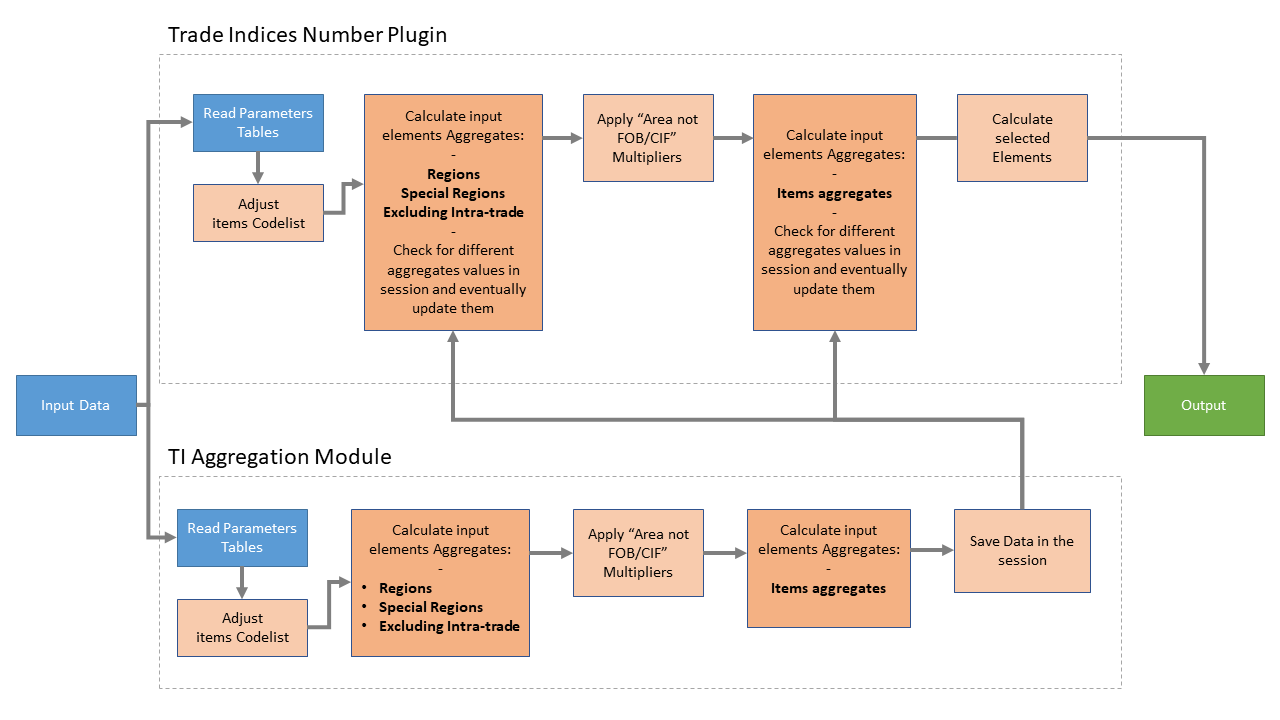
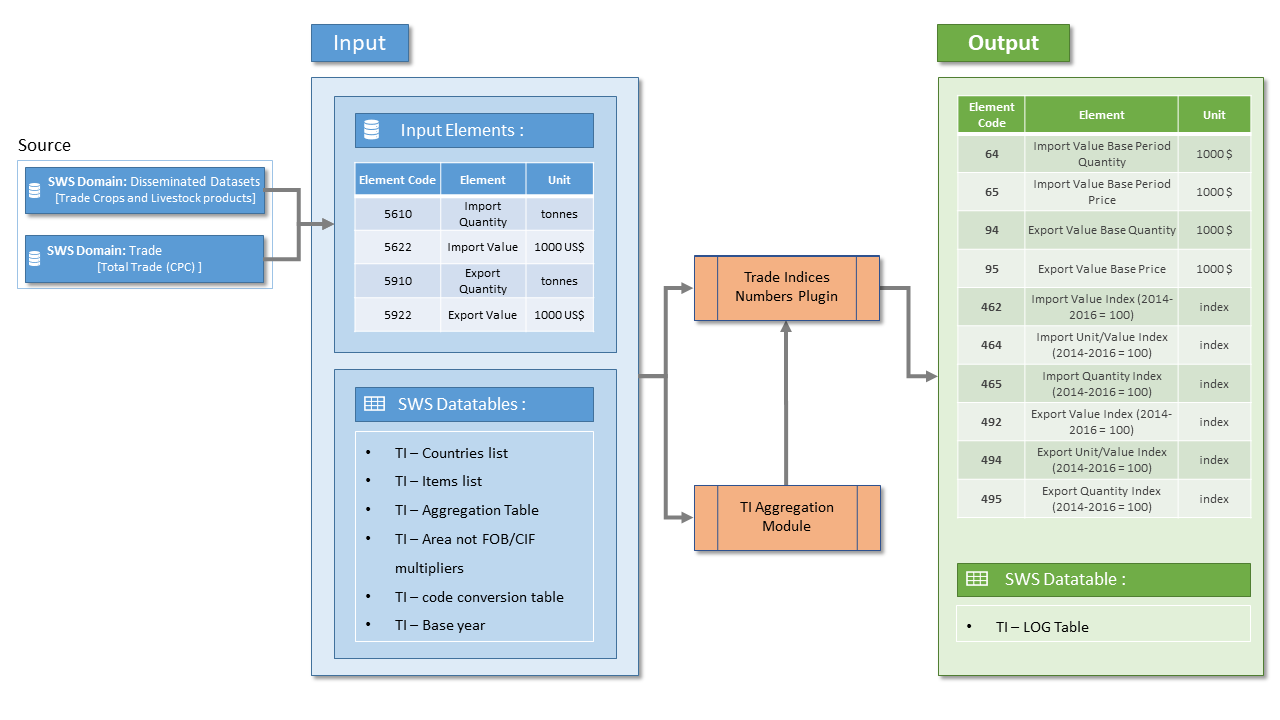
Statistical Documentation

diff --git a/docs/index.html b/docs/index.html
@@ -23,7 +23,7 @@
 <meta name="author" content="ivan.sortino@fao.org" />
 
 
-<meta name="date" content="2023-05-15" />
+<meta name="date" content="2023-05-25" />
 
   <meta name="viewport" content="width=device-width, initial-scale=1" />
   <meta name="apple-mobile-web-app-capable" content="yes" />
@@ -75,7 +75,7 @@
 <li class="chapter" data-level="1" data-path="index.html"><a href="index.html"><i class="fa fa-check"></i><b>1</b> About</a>
 <ul>
 <li class="chapter" data-level="1.1" data-path="index.html"><a href="index.html#module-workflow"><i class="fa fa-check"></i><b>1.1</b> Module Workflow</a></li>
-<li class="chapter" data-level="1.2" data-path="index.html"><a href="index.html#build-up-data-for-validation-of-procedure"><i class="fa fa-check"></i><b>1.2</b> Build up data for validation of procedure</a></li>
+<li class="chapter" data-level="1.2" data-path="index.html"><a href="index.html#build-up-data-for-validation"><i class="fa fa-check"></i><b>1.2</b> Build up data for validation</a></li>
 <li class="chapter" data-level="1.3" data-path="index.html"><a href="index.html#sws-implementation-procedure"><i class="fa fa-check"></i><b>1.3</b> SWS implementation procedure</a></li>
 <li class="chapter" data-level="1.4" data-path="index.html"><a href="index.html#output-of-the-plugin"><i class="fa fa-check"></i><b>1.4</b> Output of the plugin</a></li>
 </ul></li>
@@ -128,98 +128,110 @@
 <div id="header">
 <h1 class="title">Trade Indices Numbers</h1>
 <p class="author"><em><a href="mailto:ivan.sortino@fao.org" class="email">ivan.sortino@fao.org</a></em></p>
-<p class="date"><em>2023-05-15</em></p>
+<p class="date"><em>2023-05-25</em></p>
 </div>
 <div id="about" class="section level1 hasAnchor" number="1">
 <h1><span class="header-section-number">Chapter 1</span> About<a href="index.html#about" class="anchor-section" aria-label="Anchor link to header"></a></h1>
-<p>The aim of this module is to calculate the Value of Agriculture production within the Statistical Working System (SWS). The implementation of the procedure needs to be validated by matching the results disseminated by FAO until now.<br />
-In order to perform the validation, disseminated data needs to be available within SWS in the corresponding dataset of <em>Dissiminated Dataset</em> Domain.
-After the validation, the procedure can be applied on the corresponding production value and prices presents within the system and stored in a new “Value of Production” dataset.</p>
+<p>The aim of this module is to calculate the Trades Indices Numbers within the Statistical Working System (SWS). The procedure will be validated by matching the results disseminated by FAO on FAOSTAT platform.
+In order to perform the validation correctly, disseminated input data needs to be available within SWS in the corresponding dataset of <em>Disseminated Dataset</em> Domain.</p>
 <div id="module-workflow" class="section level2 hasAnchor" number="1.1">
 <h2><span class="header-section-number">1.1</span> Module Workflow<a href="index.html#module-workflow" class="anchor-section" aria-label="Anchor link to header"></a></h2>
 <p>As shown in the figure below, the general workflow of the module require that the Technical Unit store data in “Disseminated Dataset” to allow the plugin to ingest the right data.</p>
 <div class="figure">
-<img src="./images/general_workflow.jpg" alt="" />
-<p class="caption">Gross Production Value Plugin Data Flow</p>
+<img src="images/Dataflow_1/Slide1.PNG" alt="" />
+<p class="caption">Trade Indices Numbers Plugin Data Flow</p>
 </div>
 </div>
-<div id="build-up-data-for-validation-of-procedure" class="section level2 hasAnchor" number="1.2">
-<h2><span class="header-section-number">1.2</span> Build up data for validation of procedure<a href="index.html#build-up-data-for-validation-of-procedure" class="anchor-section" aria-label="Anchor link to header"></a></h2>
-<p>For the validation of the existing procedure, data are imported into different supporting datatable in SWS. For instance Item list, Countries list and group compositions are fetched as follow:</p>
+<div id="build-up-data-for-validation" class="section level2 hasAnchor" number="1.2">
+<h2><span class="header-section-number">1.2</span> Build up data for validation<a href="index.html#build-up-data-for-validation" class="anchor-section" aria-label="Anchor link to header"></a></h2>
+<p>To apply the methodology, support data are imported into different datatable in SWS. For instance Item list, Countries list and group compositions are fetched as follow:</p>
 <ul>
-<li><p>Country list is obtained from <em>Definitions and standards</em> section of FAOSTAT <a href="https://www.fao.org/faostat/en/#data/QV">“Value of Production”</a> dataset and uploaded into SWS <a href="resources.html#countrytab"><code>Value of production - Countries</code></a> datatable;</p></li>
-<li><p>Country group list is obtained from <em>Definitions and standards</em> section of FAOSTAT <a href="https://www.fao.org/faostat/en/#data/QV">“Value of Production”</a> dataset and uploaded into SWS <a href="resources.html#countrygrouptab"><code>Value of Production - Country Group</code></a> datatable;</p></li>
-<li><p>Item list is obtained from <em>Definitions and standards</em> section of FAOSTAT <a href="https://www.fao.org/faostat/en/#data/QV">“Value of Production”</a> dataset and uploaded into SWS <a href="resources.html#itemtab"><code>Value of Production - Item</code></a> datatable;</p></li>
-<li><p>Item group list is obtained from <em>Definitions and standards</em> section of FAOSTAT <a href="https://www.fao.org/faostat/en/#data/QV">“Value of Production”</a> dataset and uploaded into SWS <a href="resources.html#itemgrouptab"><code>Value of Production - Item group</code></a> datatable;</p></li>
-<li><p>International prices are obtained from FAOSTAT FENIX <a href="http://fenix.fao.org/faostat/internal/en/#data/PX">“<em>Producer Prices - Supplementary</em>”</a> dataset and uploaded on SWS <code>Supplementary International Dollar</code> datatable;</p></li>
+<li><p>Country list is obtained from <em>Definitions and standards</em> section of FAOSTAT <a href="https://www.fao.org/faostat/en/#data/TCL">“Crops and livestock products”</a> dataset and uploaded into SWS <a href="resources.html#countrytab"><code>TI - Country list</code></a> datatable;</p></li>
+<li><p>Item list is obtained from <em>Definitions and standards</em> section of FAOSTAT <a href="https://www.fao.org/faostat/en/#data/TCL">“Crops and livestock products”</a> dataset and uploaded into SWS <a href="resources.html#itemtab"><code>TI - Item List</code></a> datatable;</p></li>
+<li><p>Items and Countries groups list is obtained from <em>Definitions and standards</em> section of FAOSTAT <a href="https://www.fao.org/faostat/en/#data/TCL">“Value of Production”</a> dataset and uploaded into SWS <a href="#grouptab"><code>TI - Aggregation Table</code></a> datatable;</p></li>
+<li><p>Multipliers for area not FOB <em>(Free On Board)</em> / CIF <em>(Cost, Insurance, Freight)</em> are obtained from old methodology and uploaded on SWS <a href="#notfobcif"><code>TI - arean not FOB/CIF multipliers</code></a> datatable;</p></li>
 </ul>
 <p>A detailed description of each supporting datatable is reported in <a href="resources.html#datatables">SWS resources</a> section of this documentation.</p>
-<p>Since historical disseminated data may differ from those present on the Statistical Working System, it is necessary to make it available on SWS. To do this the CSI-SWS technical team need to retrieve the data from the the dissemination platform (FAOSTAT) and update it on <code>Disseminated Domain</code>. Once the procedure is done, Production and Prices data will be in line with disseminated one and the calculation should match the historical data.</p>
+<p>Since historical disseminated data may differ from those present on the Statistical Working System, it is necessary to make it available on SWS. To do this the CSI-SWS technical team need to retrieve the data from the the dissemination platform (FAOSTAT) and update it on <code>Disseminated Domain</code>.
+Note that after some changes have been applied to the methodology, results may differs for single items respect to the FAOSTAT disseminated one. Indeed, for consistency with CPC coding standard and to align the <em>Trade Indices</em> (TI) domain with <em>Crops and livestock products</em> (TCL) one, the plugin will calculate each single items individually and returns values for each one instead of grouping them.</p>
 </div>
 <div id="sws-implementation-procedure" class="section level2 hasAnchor" number="1.3">
 <h2><span class="header-section-number">1.3</span> SWS implementation procedure<a href="index.html#sws-implementation-procedure" class="anchor-section" aria-label="Anchor link to header"></a></h2>
-<p>The plugin will work within a session, meaning that the user needs to select the elements and the years for which they intend to calculate the Value of Agriculture Production, then run the plugin within the new created session.
-It is worth noting that for the sake of consistency with FAOSTAT item/country list and for calculation of the aggregates, the plugin will always return values for all the countries and items specified into the supporting data table <code>"Value of production - Countries"</code> and <code>"Value of Production - Item"</code></p>
-<p>The module will pull its data directly within the working system, allowing the user to choose the source of data both for Production data and for Annual Producer Prices. For instance, if Disseminated Datasets source is not selected:</p>
+<p>The plugin will work within a session, meaning that the user needs to select the elements and the years for which they intend to calculate the trade indices, then run the plugin within the new created session.
+It is worth noting that for the sake of consistency with FAOSTAT item/country list and for calculation of the aggregates, the plugin will always calculate values for all the countries and items specified into the supporting data table <code>"TI - Country list"</code> and <code>"TI - Item list"</code>, the output can be filtered using the different parameters implemented.</p>
+<p>The module will pull its data directly within the working system, allowing the user to choose the source of data for Import or Export quantities For instance, if Disseminated Datasets source is not selected:</p>
 <ul>
-<li><p>Production data in tonnes (<em>element 5510/55100</em>) are pulled from <code>Agriculture Production</code> domain, dataset <code>Agriculture Production</code>;</p></li>
-<li><p>Annual Producer Prices data for Standard Local Currency (<em>element 5531</em>) and US Dollar (<em>element 5532</em>) are pulled from <code>Producer Prices</code> domain, dataset <code>Annual Producer Prices (Validated)</code></p></li>
-<li><p>Annual Producer Prices data for International Dollar (<em>element 5533</em>) are pulled from <code>Producer Prices</code> domain, dataset <code>International dollar prices</code>.</p></li>
+<li><p>Import / Export quantities in tonnes (<em>element 5610/5910</em>) are pulled from <code>Trade</code> domain, dataset <code>Total Trade (CPC)</code>;</p></li>
+<li><p>Import / Export values in thousand US Dollar (<em>element 5622/5922</em>) are pulled from <code>Trade</code> domain, dataset <code>Total Trade (CPC)</code>;</p></li>
 </ul>
-<p>If Disseminated Datasets source is selected, the plugin will pull its data from the corresponding datasets of the “Disseminated Datasets” domain, however since International dollar prices are not disseminated, they will be always fetched in “Producer Prices” domain.<br />
-For the calculation of the element 434 “Gross per capita Production Index Number” the plugin will require also the total population by sex, element 511 from <code>Population Disseminated</code> of <code>Disseminated datasets</code> domain.<br />
-</p>
 <p><br></p>
-<p>For the correct functioning of the module it is important to ensure that the read permissions on the datasets mentioned above are correctly guaranteed.</p>
+<p>For the correct functioning of the module it is important to ensure that the read permissions on the datasets mentioned above are correctly guaranteed.<br />
+Please note that the plugin retrieves data from the item codes specified in the <code>"TI - Item list"</code> datatable, following the official CPC standard. However, as some SWS item codes may not align with the standard, the plugin enables internal code conversion to ensure accurate information retrieval. The correct codes are determined by referencing the mapping specified in the <code>TI - Code conversion table</code> datatable.<br />
+</p>
 </div>
 <div id="output-of-the-plugin" class="section level2 hasAnchor" number="1.4">
 <h2><span class="header-section-number">1.4</span> Output of the plugin<a href="index.html#output-of-the-plugin" class="anchor-section" aria-label="Anchor link to header"></a></h2>
-<p>The module will return the time series for all the elements selected in the session. The output elements are listed in the table below:</p>
+<p>The module will return the time series for all the elements selected in the session. The possible output elements are listed in the table below:</p>
 <p><br></p>
 <table>
-<caption><span id="tab:unnamed-chunk-1">Table 1.1: </span>Value of Agricultural Production Plugin calculated elements.</caption>
-<colgroup>
-<col width="17%" />
-<col width="82%" />
-</colgroup>
+<caption><span id="tab:unnamed-chunk-1">Table 1.1: </span>Trade Indices Numbers Plugin calculated elements.</caption>
 <thead>
 <tr class="header">
 <th align="left">Element Code</th>
 <th align="left">Element descriptor</th>
+<th align="left">Unit</th>
 </tr>
 </thead>
 <tbody>
 <tr class="odd">
-<td align="left">56</td>
-<td align="left">Gross Production Value (current thousand SLC)</td>
+<td align="left">64</td>
+<td align="left">Import Value Base Period Quantity</td>
+<td align="left">1000 $</td>
 </tr>
 <tr class="even">
-<td align="left">55</td>
-<td align="left">Gross Production Value (constant 3-year base thousand SLC)</td>
+<td align="left">65</td>
+<td align="left">Import Value Base Period Price</td>
+<td align="left">1000 $</td>
 </tr>
 <tr class="odd">
-<td align="left">57</td>
-<td align="left">Gross Production Value (current thousand US$)</td>
+<td align="left">94</td>
+<td align="left">Export Value Base Quantity</td>
+<td align="left">1000 $</td>
 </tr>
 <tr class="even">
-<td align="left">58</td>
-<td align="left">Gross Production Value (constant 3-year base thousand US$)</td>
+<td align="left">95</td>
+<td align="left">Export Value Base Price</td>
+<td align="left">1000 $</td>
 </tr>
 <tr class="odd">
-<td align="left">152</td>
-<td align="left">Gross Production Value (constant 3-year base thousand I$)</td>
+<td align="left">462</td>
+<td align="left">Import Value Index (2014-2016 = 100)</td>
+<td align="left">index</td>
 </tr>
 <tr class="even">
-<td align="left">154</td>
-<td align="left">Net Production Value (constant thousand I$)</td>
+<td align="left">464</td>
+<td align="left">Import Unit/Value Index (2014-2016 = 100)</td>
+<td align="left">index</td>
 </tr>
 <tr class="odd">
-<td align="left">432</td>
-<td align="left">Gross Production Index Number</td>
+<td align="left">465</td>
+<td align="left">Import Quantity Index (2014-2016 = 100)</td>
+<td align="left">index</td>
 </tr>
 <tr class="even">
-<td align="left">434</td>
-<td align="left">Gross per capita Production Index Number</td>
+<td align="left">492</td>
+<td align="left">Export Value Index (2014-2016 = 100)</td>
+<td align="left">index</td>
+</tr>
+<tr class="odd">
+<td align="left">494</td>
+<td align="left">Export Unit/Value Index (2014-2016 = 100)</td>
+<td align="left">index</td>
+</tr>
+<tr class="even">
+<td align="left">495</td>
+<td align="left">Export Quantity Index (2014-2016 = 100)</td>
+<td align="left">index</td>
 </tr>
 </tbody>
 </table>

diff --git a/docs/404.html b/docs/404.html
@@ -23,7 +23,7 @@
 <meta name="author" content="ivan.sortino@fao.org" />
 
 
-<meta name="date" content="2023-05-15" />
+<meta name="date" content="2023-05-25" />
 
   <meta name="viewport" content="width=device-width, initial-scale=1" />
   <meta name="apple-mobile-web-app-capable" content="yes" />
@@ -75,7 +75,7 @@
 <li class="chapter" data-level="1" data-path="index.html"><a href="index.html"><i class="fa fa-check"></i><b>1</b> About</a>
 <ul>
 <li class="chapter" data-level="1.1" data-path="index.html"><a href="index.html#module-workflow"><i class="fa fa-check"></i><b>1.1</b> Module Workflow</a></li>
-<li class="chapter" data-level="1.2" data-path="index.html"><a href="index.html#build-up-data-for-validation-of-procedure"><i class="fa fa-check"></i><b>1.2</b> Build up data for validation of procedure</a></li>
+<li class="chapter" data-level="1.2" data-path="index.html"><a href="index.html#build-up-data-for-validation"><i class="fa fa-check"></i><b>1.2</b> Build up data for validation</a></li>
 <li class="chapter" data-level="1.3" data-path="index.html"><a href="index.html#sws-implementation-procedure"><i class="fa fa-check"></i><b>1.3</b> SWS implementation procedure</a></li>
 <li class="chapter" data-level="1.4" data-path="index.html"><a href="index.html#output-of-the-plugin"><i class="fa fa-check"></i><b>1.4</b> Output of the plugin</a></li>
 </ul></li>
